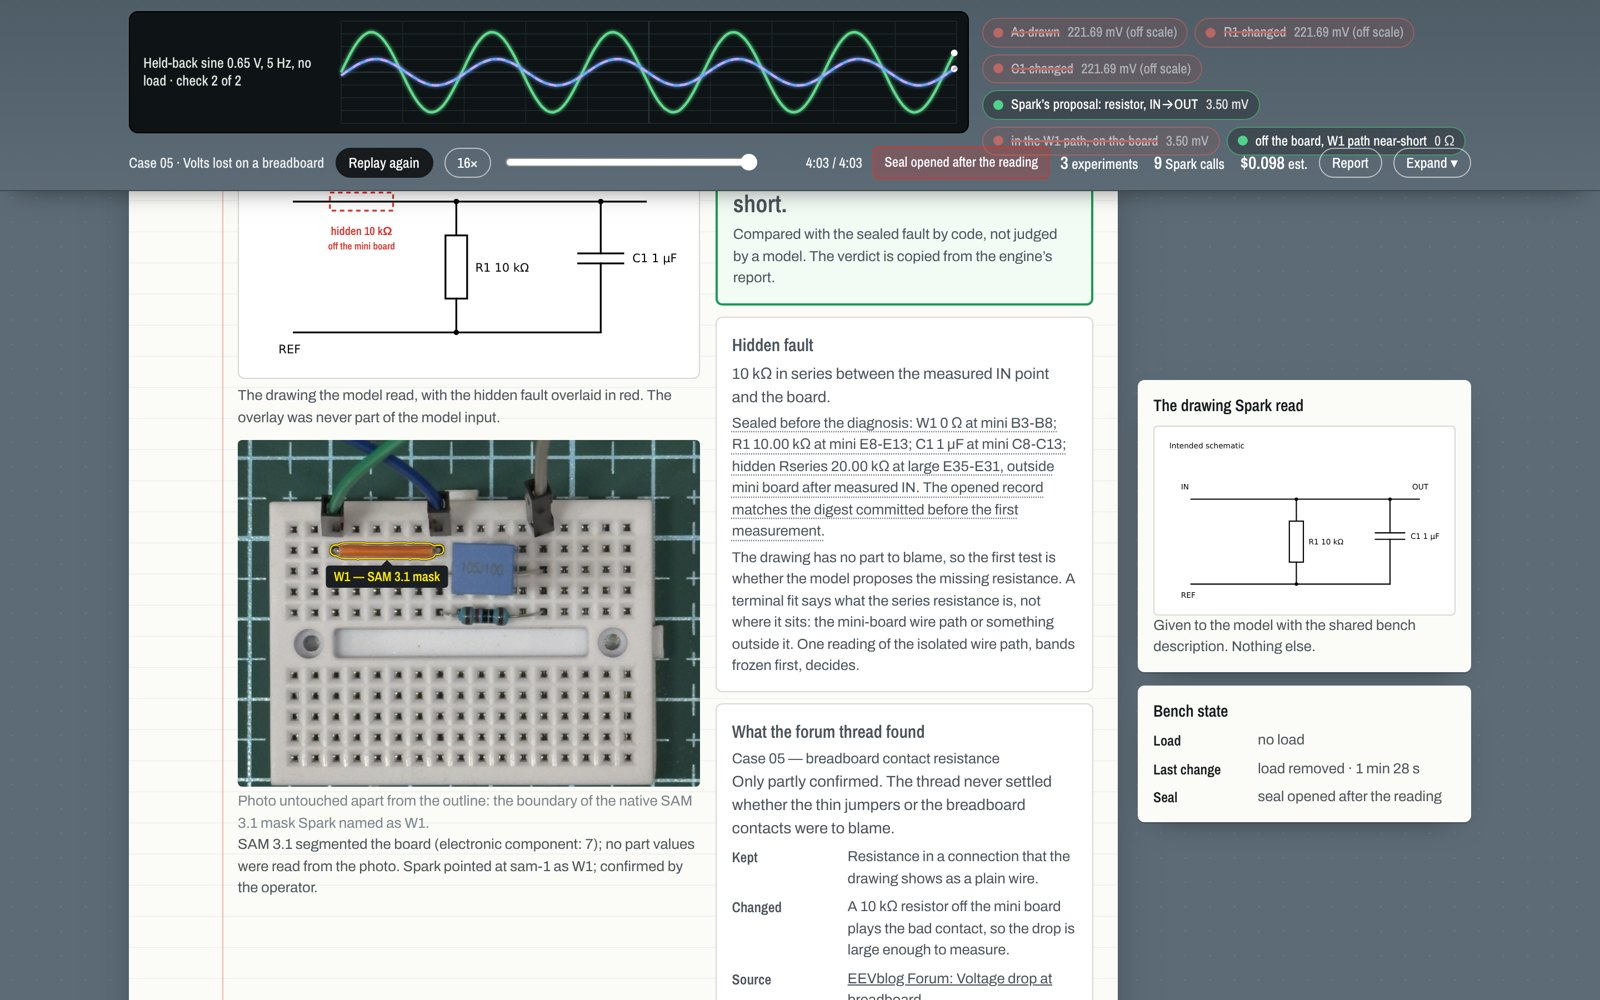
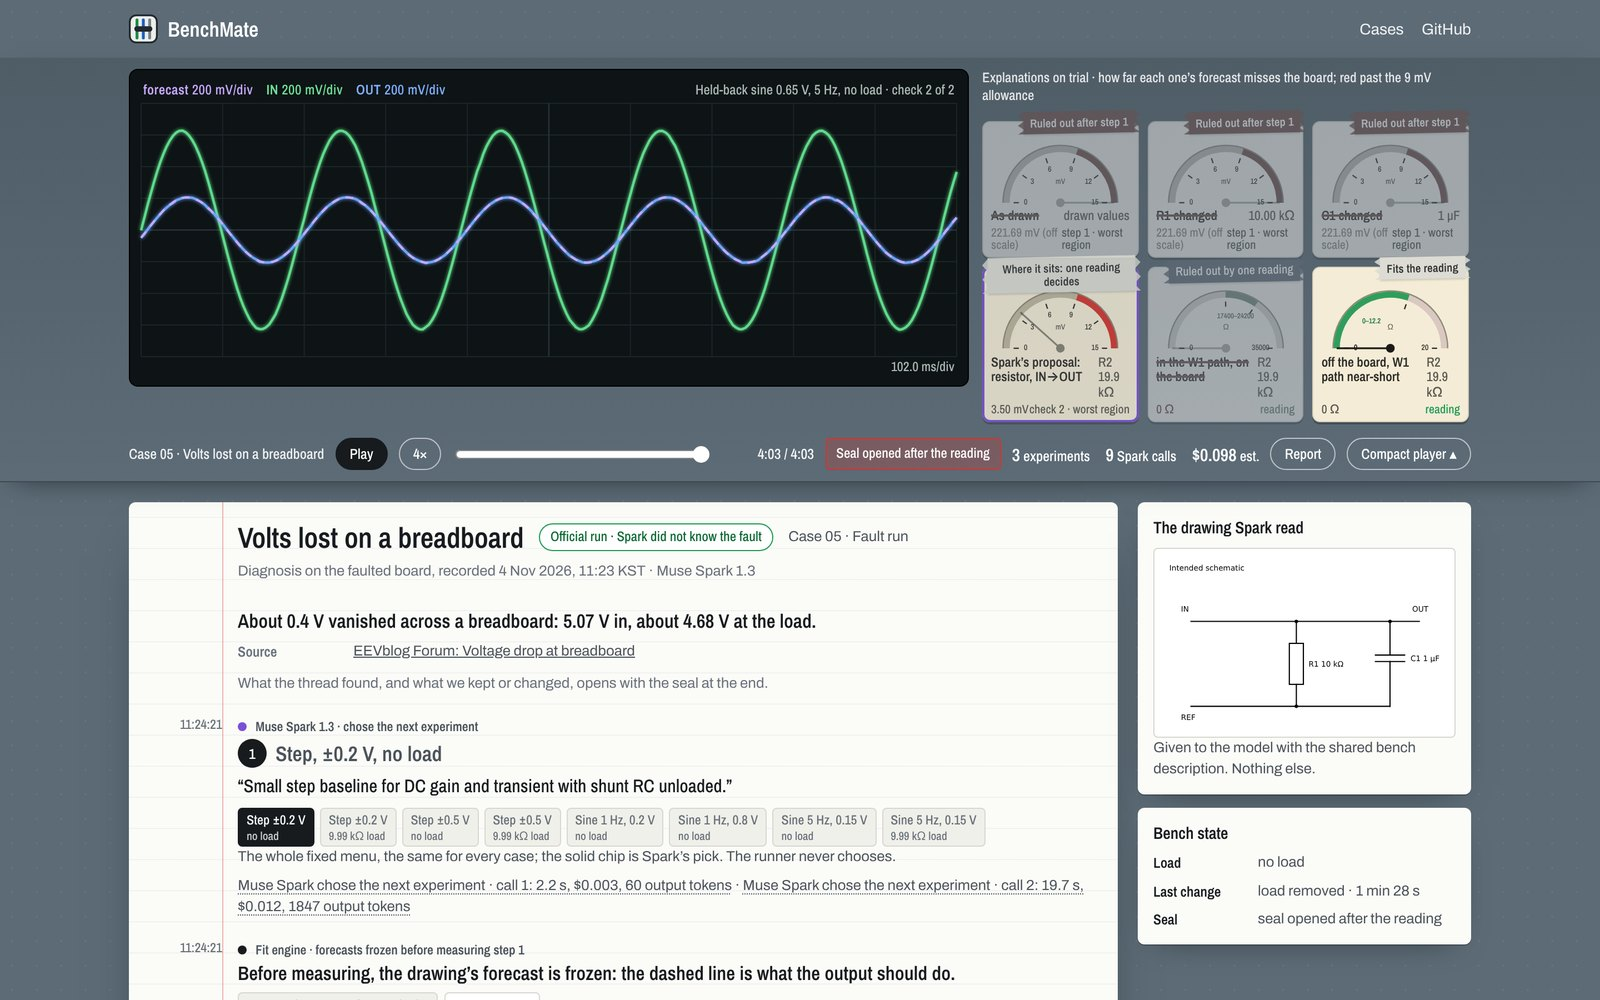
README: the site's voice, fresh screenshots, a repository map
Opening headline and two-line pitch as on the site; new landing and
case 05 images from the current design; the seal step says what code
checks (the digest against the commitment), not more; a Repository
map before Try it. All 28 relative links resolve.

Claude-Session: https://claude.ai/code/session_016yJ6onsusv49FZT69Jxk9m

diff --git a/README.md b/README.md
@@ -1,10 +1,12 @@
 # BenchMate
 
-**A diagnostic instrument for the first power-on of real hardware. Muse Spark reads the drawing, designs experiments on the real circuit, forecasts each one before an Arduino measures it, and keeps crossing out explanations until one is left. Five faults were planted on five boards and sealed; the model found where each board disagreed with its drawing. Every step is a record you can verify offline.**
+**The drawing is right. The board is right. The output is wrong.**
+
+Meta's Muse Spark reads the schematic and chooses its own experiments on a real board. Every forecast comes before the measurement; every verdict is scored by code against a sealed answer. Five faults were planted on five small circuits and sealed; the model found where each board disagreed with its drawing, and every step is a record you can verify offline.
 
 **[Open the live demo](https://bami-codes.github.io/BenchMate/)** — five recorded diagnoses replayed from their logs, every number clickable to the event behind it. No installation, no API key.
 
-[![The landing page: the first experiment's forecast and measurement on the scope, the drawing the model read and the board photo](site/assets/readme/landing-fold.jpg)](https://bami-codes.github.io/BenchMate/)
+[![The landing page: the first experiment on the scope with the forecast dashed and the measured input and output drawn over it, the drawing the model read and the board photo](site/assets/readme/landing-fold.jpg)](https://bami-codes.github.io/BenchMate/)
 
 The experiments on that page did not exist until the model asked for them. That is the capability this project shows; a circuit on a $40 bench is the smallest honest place to show it.
 
@@ -24,7 +26,7 @@ Five problems from real forum threads, each rebuilt as a small circuit on a mini
 
 Counted from the records: **10 official runs, 5 fault diagnoses with held-back checks passed, 2 structure proposals, 4 readings asked for, 5 seals matched, 5 restored reruns with no mismatch; 101 Muse Spark calls, 6 SAM 3.1 calls, about $1.01** at the published rates. These are counts from a public ledger that also holds every stopped, abstained and miswired attempt (see [Everything that went wrong](#everything-that-went-wrong)). They are not an accuracy rate, and the cases were known to the developers: this is not a blind test.
 
-[![Case 05 end scene: the proposed series resistor placed off the board by one reading, the photo with SAM 3.1's outline of the jumper Spark named, the opened seal](site/assets/readme/case05-end.jpg)](https://bami-codes.github.io/BenchMate/run.html?run=20261104T021333-c80ef3617e)
+[![Case 05 at the verdict: the three value explanations crossed out, Spark's proposed resistor, and the two placements the engine split, settled by one reading; the notebook below](site/assets/readme/case05-end.jpg)](https://bami-codes.github.io/BenchMate/run.html?run=20261104T021333-c80ef3617e)
 
 ## How a run works
 
@@ -41,7 +43,7 @@ flowchart LR
     G --> C
     F -->|survivors| H[Forecast pushed to GitHub, two held-back inputs measured]
     H -->|same waveforms| I[Spark names one part to read; bands frozen; operator reads it]
-    H --> J[Seal opened, compared by code]
+    H --> J[Seal opened; its digest checked by code against the commitment]
     I --> J
 ```
 
@@ -51,7 +53,7 @@ flowchart LR
 4. **Measure and cross out.** The Arduino measures the real circuit. A miss above 9 mV RMS, on the whole step or any region of it, rules the explanation out. If none survive, Spark may propose a new netlist.
 5. **Check on held-back inputs.** The final forecast is committed and pushed to GitHub, then two reserved inputs never used for fitting are measured.
 6. **One reading at the bench.** When two explanations give the same terminal waveforms, Spark names the part and the quantity; its expected range under each explanation (and for each way of reading it: multimeter or marking) is frozen and pushed; the operator types one value; the same rule rules out.
-7. **Open the seal.** The assembly record, hashed before the first measurement, is compared with the result by code.
+7. **Open the seal.** The assembly record, hashed before the first measurement, is opened; code checks its digest against that commitment, and the verdict stands beside it. The site prints both and does not pick a verdict.
 
 ## The bench
 
@@ -74,7 +76,7 @@ Spark is never told the fault, the assembly, hole positions, earlier results or 
 
 - **Forecast first, every time.** Training forecasts are hashed into the event log before the capture command is sent; the final forecast is committed and pushed to GitHub before the held-back inputs are measured; reading bands are pushed before the operator reads. The commits carry the time.
 - **Tamper-evident records.** Each run is an append-only JSONL log in which every event carries its SHA-256 and the previous one. The site shows the event behind every number.
-- **Sealed truth.** The operator's assembly record is hashed before the first measurement and opened only after the reading is scored. The site's red overlay was never model input.
+- **Sealed truth.** The operator's assembly record is hashed before the first measurement and opened only after the reading is scored; the digest is checked by code when it opens. The site's red overlay was never model input.
 - **Scored by code.** Verdicts, survivors and reading scores are copied from the engine's events as written; the site never picks a verdict.
 - **Verify offline.** From a fresh clone, no packages, keys, network or hardware:
 
@@ -126,6 +128,19 @@ Kept as development records, not counted in the five cases.
 - **Structure discovery on a simulated bench:** all five starting models failed; Spark wrote a netlist with a series resistor and a diode, its prediction was pushed before two unseen inputs, both matched at 1.7 mV. [Record](examples/b5-unloaded-spark/2026-10-30/20261030T133514-4ea9a8848e/README.md). The physical version became case 04.
 - **Preregistered synthetic evaluation:** with bench access Spark identified 24/24 in-family cases; without measurements 8/24; engine and fixed-plan baselines also reached 24/24, so engine ranking stays in the linear workflow and no LLM-superiority claim is made. Spark Open (Baseten) 21/24 with eight transport-related incompletes. [Comparisons](examples/overnight/2026-11-02/README.md).
 - **No-tool comparison:** asked the same question without instruments, all five replies opened with "nothing is wrong with the circuit" and advised re-measuring; the bench showed the capacitor had changed. A qualitative case, not an error rate. [Replies](examples/no-tool-spark/2026-10-30/20261030T134112-a9742f1b2e/README.md).
+
+## Repository map
+
+| Path | What is there |
+|---|---|
+| `site/` | The demo: static pages, the data extracted from the records, the browser checks and the deploy notes (`site/HANDOFF.md`, `site/DESIGN.md`). Published to the `gh-pages` branch. |
+| `src/benchmate/` | The engine: bench control, fit and forecast, the Spark tool loop, the reading and seal protocol, and the offline verifier. |
+| `firmware/` | Arduino UNO R4 sketches: the instrument, bring-up and loopback checks. |
+| `examples/` | The records: hash-chained event logs, frozen forecasts and metadata-free photo derivatives for every run, counted or not. |
+| `docs/` | Protocols, amendments, incident records and results, dated; [`docs/evidence-index.md`](docs/evidence-index.md) is the index. |
+| `tests/` | Tests for the engine and the firmware stubs. |
+| `scripts/`, `experiments/` | Development tooling and bench QA scripts. |
+| `video/` | Drafts of a pipeline for a demo film. No film has been made yet. |
 
 ## Try it
 
